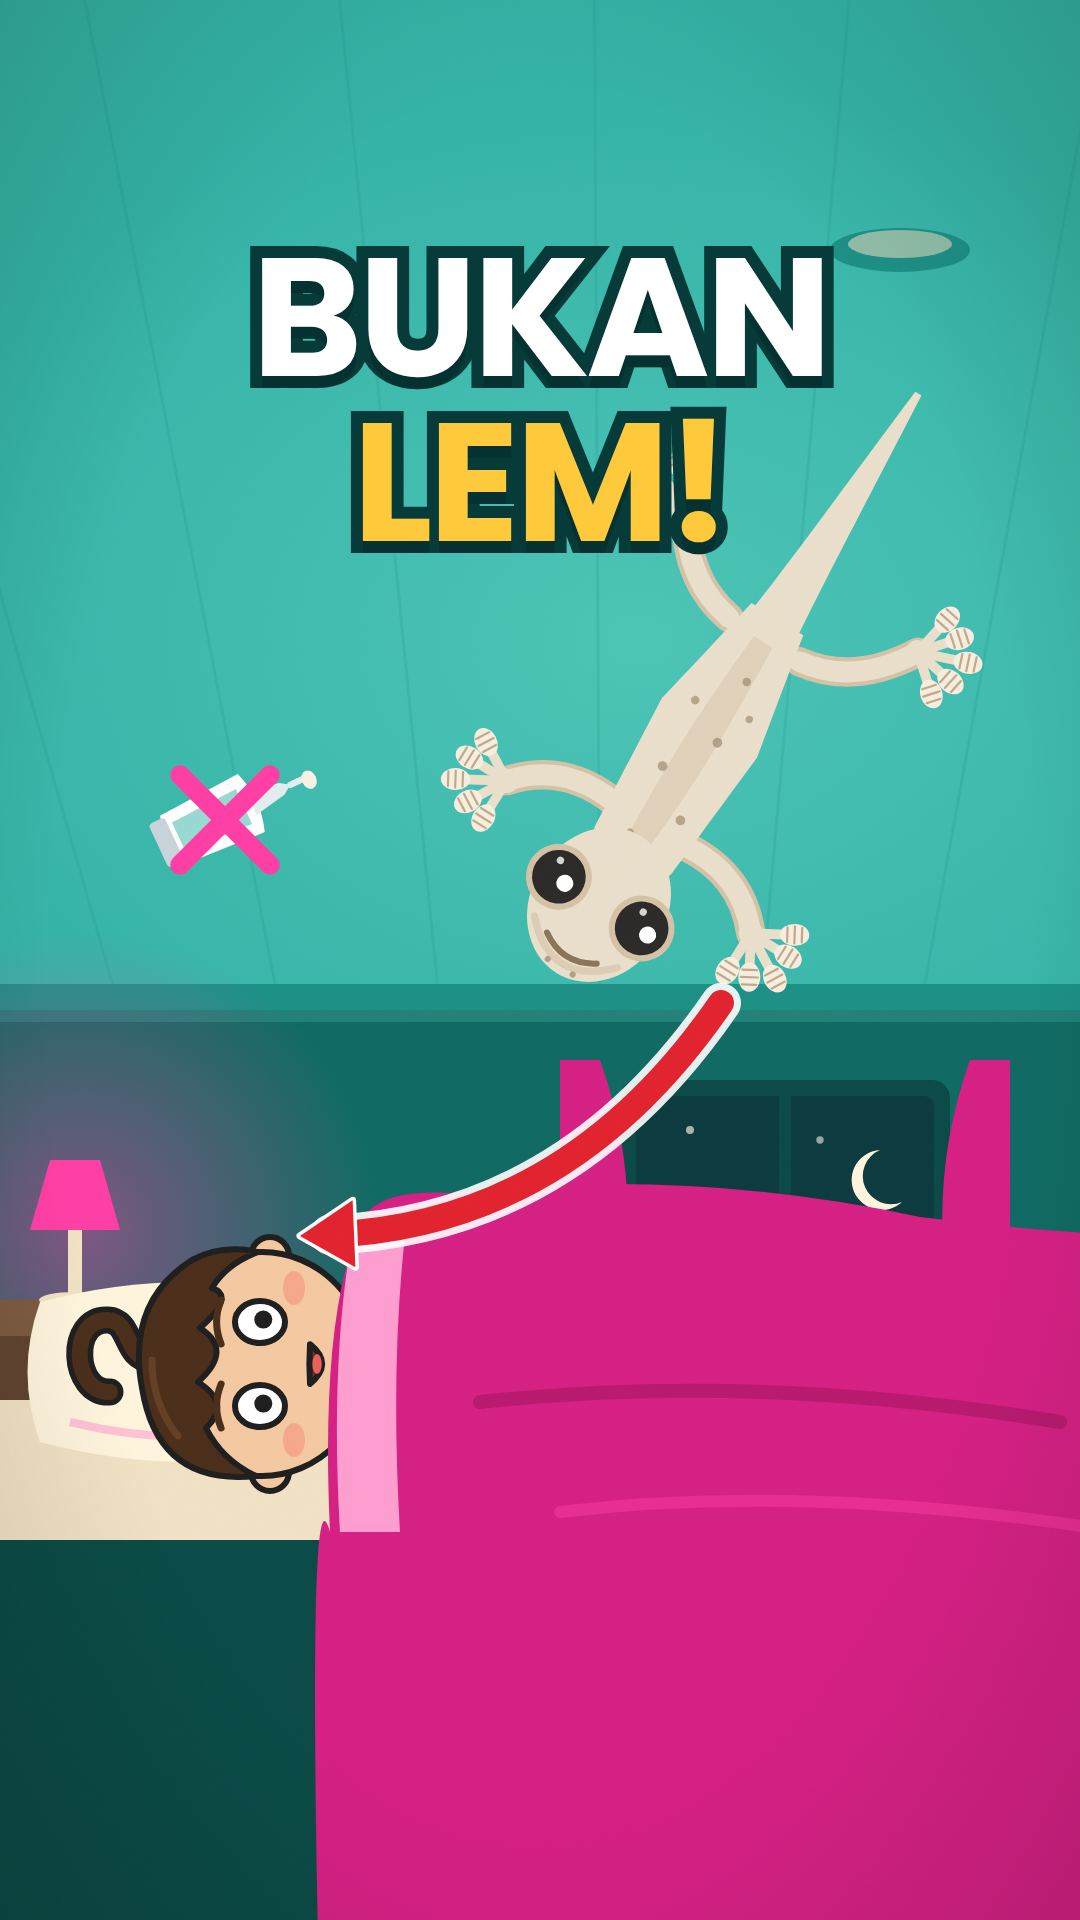
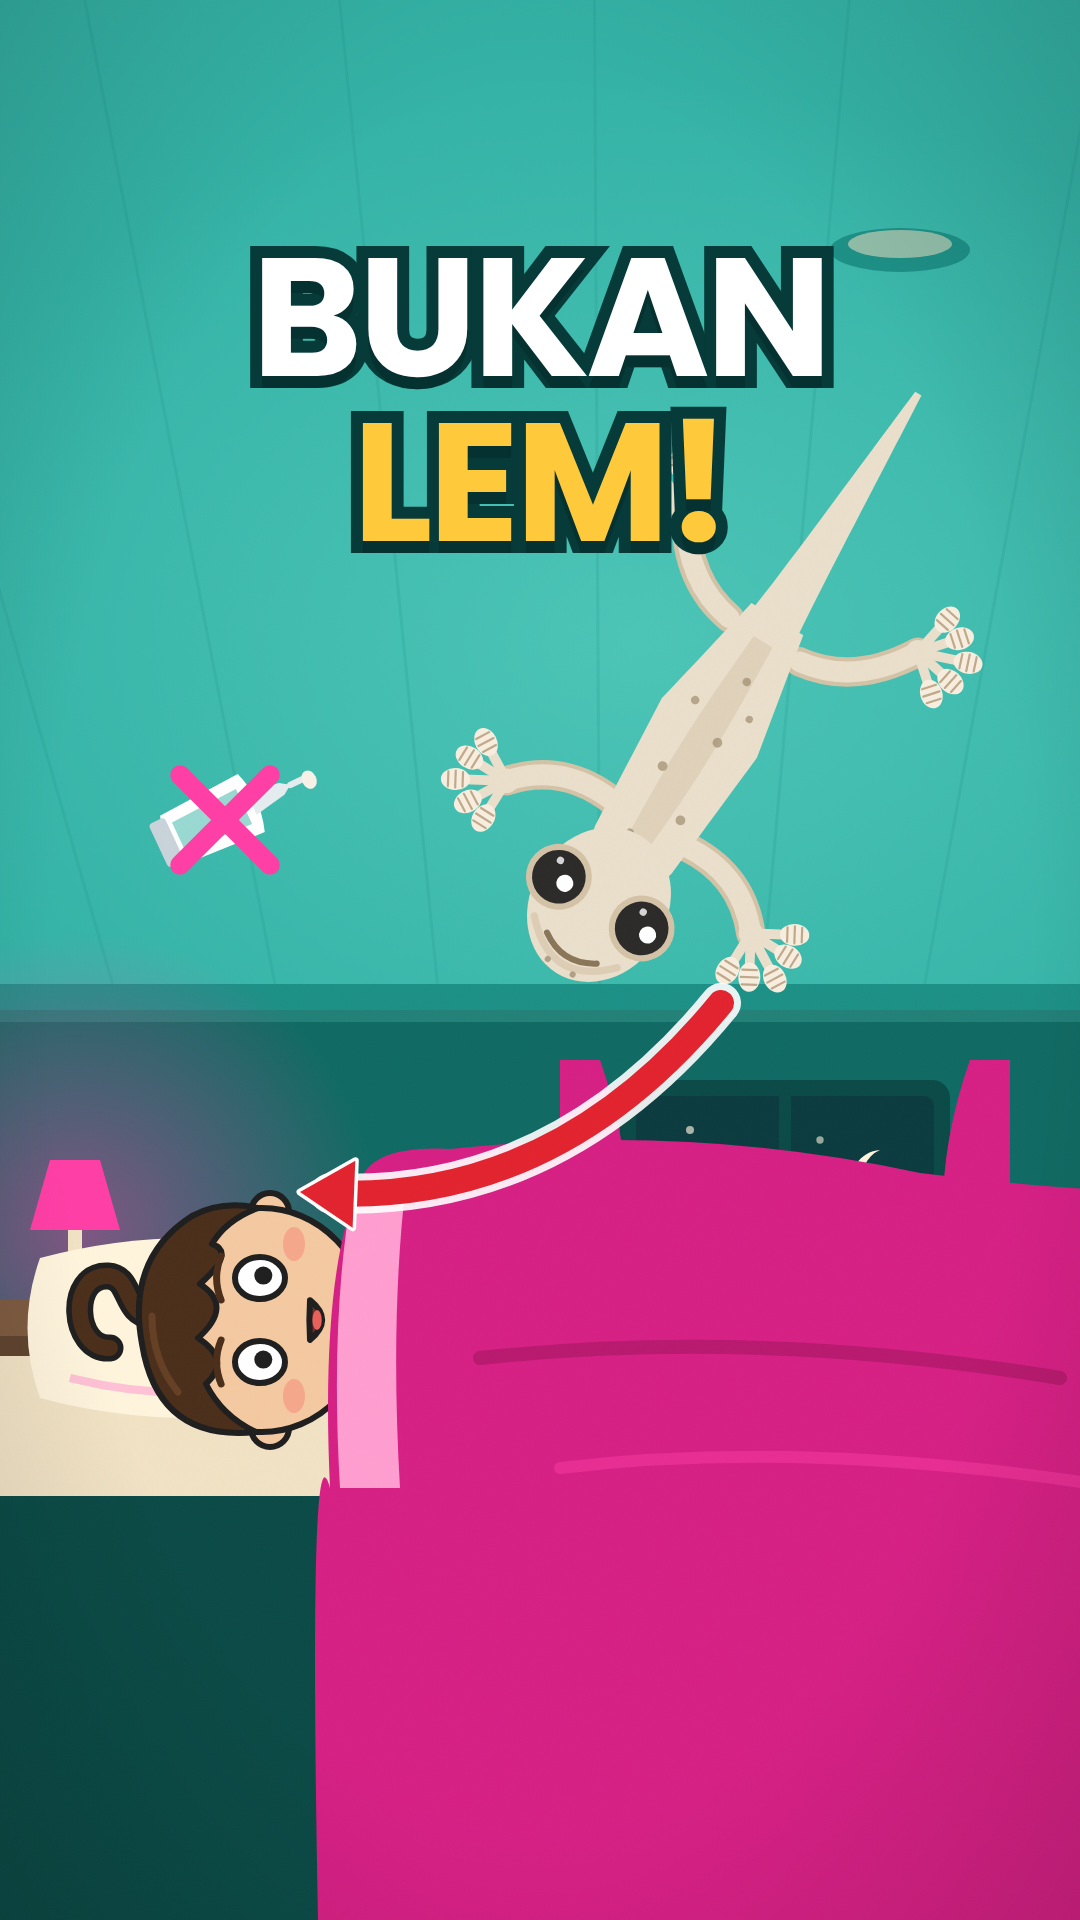
B4-01 Otak beku: R1 + cek_fakta LULUS -> produksi
Claude-Session: https://claude.ai/code/session_01SafhMvgyDP71sFZ4YM6fEU

diff --git a/antrean/2026-11-25_b3-11-cicak/visual/video.html b/antrean/2026-11-25_b3-11-cicak/visual/video.html
@@ -41,7 +41,7 @@ const cap=(txt,T,a,b,o={})=>{const kk=halus(lin(T,a-.05,a+.2))*(1-halus(lin(T,b-
  return `<div class="abs" style="left:90px;width:900px;top:${o.y||268}px;text-align:center;transform:rotate(${o.rot??-2}deg) scale(${(.86+.14*kk).toFixed(3)});opacity:${kk.toFixed(3)}"><span style="display:inline-block;max-width:880px;padding:6px 30px 12px;border:8px solid ${o.warna||C.FUCHSIA};border-radius:24px;background:${o.bg||'rgba(8,52,50,.86)'};font:700 ${o.uk||78}px/1.05 Poppins;letter-spacing:-1px;color:#FFFFFF;text-shadow:0 6px 16px rgba(0,0,0,.45)">${txt}</span>${o.kecil?`<div style="margin-top:14px;font:600 36px Poppins;color:${C.KREM};text-shadow:0 3px 8px rgba(0,0,0,.6)">${o.kecil}</div>`:''}</div>`};
 
 // ===== DUNIA KAMAR (sampul, babak 1-2, babak 6, babak 8 akhir) =====
-const BARING={cx:330,cy:1362,rot:-90,w:400};
+const BARING={cx:330,cy:1318,rot:-90,w:400};
 const CK0={x:705,y:735,s:1.22,rot:212};
 const TANGAN_BAWAH={tanganK:[134,412],tanganN:[266,412],bentukK:'kepal',bentukN:'kepal',tekukK:1,tekukN:-1};
 const ATS=tebeAnimasi([{t:0,pose:'kaget'}],{benih:3});
@@ -63,7 +63,7 @@ function kamarScene(T,st){
  const t=st.tb;let tebeHtml=t?tebeDi(t.p,t.cx,t.cy,(t.w||BARING.w),t.rot,t.extra||''):'';
  let ov=A.selimut(T,{tepi:st.sel.tepi,cy:BARING.cy,angkat:st.sel.angkat,fase:st.sel.fase});
  if(st.hp&&st.hp.a>0)ov+=`<g opacity="${st.hp.a.toFixed(3)}">${A.hp(st.hp.x,st.hp.y,st.hp.s,st.hp.rot,{tag:st.hp.tag})}</g>`;
- if(st.panah>0){const f=A.posKaki(0,c.x,c.y,c.s,c.rot);ov+=A.panahMerah(Math.round(f[0]-30),Math.round(f[1]+70),300,1236,st.panah)}
+ if(st.panah>0){const f=A.posKaki(0,c.x,c.y,c.s,c.rot);ov+=A.panahMerah(Math.round(f[0]-30),Math.round(f[1]+70),300,1192,st.panah)}
  // debu jatuh dari langit-langit melewati kamera
  if(st.debu>=0&&st.debu<1){const u=st.debu,x=lerp(640,560,u),y=lerp(760,1700,u*u),r=lerp(6,40,u*u);ov+=`<circle cx="${x.toFixed(1)}" cy="${y.toFixed(1)}" r="${r.toFixed(1)}" fill="${C.KREM}" opacity="${(.9*(1-u*.6)).toFixed(3)}"/>`}
  return latar(C.TOSCA2)+kamera(svgBesar(bg+pl,st.blur||0)+tebeHtml+svgW(ov),st.cam)}

diff --git a/studio-aset/aset-cicak.js b/studio-aset/aset-cicak.js
@@ -44,7 +44,7 @@
   const rotP = (p, deg) => { const r = (deg * Math.PI) / 180, c = Math.cos(r), s = Math.sin(r); return [p[0] * c - p[1] * s, p[0] * s + p[1] * c]; };
 
   // ---------- kamar malam (koordinat layar 1080x1920 + margin) ----------
-  const KAMAR = { plafon: 1010, kasur: 1400, bantal: [190, 1372] };
+  const KAMAR = { plafon: 1010, kasur: 1356, bantal: [190, 1328] };
   function kamar(t = 0, o = {}) {
     let s = `<defs><radialGradient id="ckLampu" cx=".5" cy=".5" r=".5"><stop offset="0" stop-color="${C.FUCHSIA}" stop-opacity=".55"/><stop offset="1" stop-color="${C.FUCHSIA}" stop-opacity="0"/></radialGradient>
 <radialGradient id="ckPlafon" cx=".5" cy=".5" r=".5"><stop offset="0" stop-color="${C.TOSCA1}" stop-opacity=".55"/><stop offset="1" stop-color="${C.TOSCA1}" stop-opacity="0"/></radialGradient></defs>`;

diff --git a/antrean/2026-11-25_b3-11-cicak/lembar_tim.md b/antrean/2026-11-25_b3-11-cicak/lembar_tim.md
@@ -6,5 +6,12 @@ Rasa yang dikejar (kagum / kaget / geli / haru): kaget lalu kagum (sedikit geli)
 - Nadia (naskah)    : Hook #2 mitos vs fakta dalam bingkai rebahan: "Rebahan, CICAK nempel di langit-langit, di atas mukamu. Kok bisa nggak JATUH? Pakai lem?" (cicak ±0,9 dtk) → "BUKAN lem. Bukan sedotan juga." ±6,2 dtk → "pakai... RAMBUT" + open loop "Lepasnya malah lebih ANEH" → jutaan ujung + gaya tarik antarmolekul + canda "receh SEKARUNG" → "Yang diteliti sih kerabat besarnya, TOKEK" → kejutan kedua ditarik lurus KUAT / dimiringin COPOT / dikelupas kayak stiker → KAMAR/DAPUR/LAMPU + "tag teman yang takut cicak, suruh dia lihat ke ATAS" (loop). 106 kata ±48 dtk, tanpa angka. Judul: "Kenapa Cicak Bisa Nempel? Ternyata Bukan Pakai Lem". Skor 8/9, viral 8/10. #2 dikunci untuk Cicak (Tersentak/Presto jangan #2).
   Masukan untuk Yoga: cicak WAJIB bergerak di frame 0 (bukan gambar diam); adegan 1–4 satu dunia, zoom terus dari langit-langit ke ujung rambut; garis tarik antarmolekul JANGAN magnet/tetes lem/air; tokek harus jelas beda dari cicak (besar, totol jingga); jari cicak menggulung dari ujung searah stiker; SFX "tokek!" buatan sendiri; palet tosca+fuchsia cek bentrok dengan Tersentak (jingga-kuning) — aman.
   R1 (25 Nov, cek_riset Laras 3 WAJIB + cek_seo): adegan 7 → "Digeser sejajar? Tetap KUAT. Dimiringin, diangkat dari ujung? Gampang COPOT." (teks DIGESER: KUAT / DIMIRINGIN: COPOT; Yoga: tali menarik MENYAMPING, bukan ke atas); adegan 6 "Yang paling banyak diteliti sih..."; deskripsi tanpa 30°, URL Nature 35015073, kalimat permukaan basah dihapus; tag "cicak jatuh dari langit-langit" dihapus; "malah"/"terus" dibuang → 108 kata ±48,8 dtk. Skor tetap 8/9, viral 8/10. Dua detik pertama tidak disentuh.
-- Yoga (editor)     : (diisi Yoga)
+- Yoga (editor)     : Set BARU `studio-aset/aset-cicak.js` (kamar tosca dari kasur, cicak & tokek kartun, telapak lamela, mikroskop rambut bercabang, penampang molekul, meja koin, panggung kupas, layar terbelah jari|stiker, rumah 3 ruang); 9 babak, visual berganti tiap 1,5–3 dtk, kamera selalu bergerak; subtitle pindah per babak (y 1092 / 1360 / 1330 / 925) supaya tidak menutupi cicak, telapak, atau wajah Tebe. Garis tarik = pegas kecil fuchsia antar-titik molekul (bukan magnet/lem/air); tali menarik MENYAMPING; tokek gemuk biru-abu bertotol jingga + lencana labu tanpa huruf.
+  Audio: narasi lama dipakai (0 kredit), tanpa JEDA ("pakai..." sudah memanjang 0,8 dtk). Musik `langit-langit` + SFX `tokek` & `receh` buatan sendiri (`scripts/buat_sfx_cicak.py`, 5 putaran = 50,0 dtk); "tokek!" dipendekkan 0,42 dtk & ditaruh di celah SESUDAH kata (tidak menutupi narasi). Total SFX 6.
+  Hasil: final.mp4 50,0 dtk · 12,6 MB · cek_mulus LULUS · cek_video LULUS · sampul = frame 0 = frame akhir (loop), "BUKAN LEM!" tosca+fuchsia, Tebe rebahan menatap cicak + panah merah (beda dari Nyamuk & Tersentak).
+  Masukan: Nadia — bagian "Makanya nggak jatuh" sudah dipotong dari audio, jadi cicak melambai 1 kaki di awal babak tokek sebagai gantinya; Raka — klip 7–13 dtk (telapak → RAMBUT) kuat untuk cuplikan TikTok/IG.
 - Pak Bima (manajer): KEPUTUSAN RAPAT — hook rebahan menatap cicak terbalik di langit-langit kamar, kata 'cicak' ≤ 2 dtk, tipe hook beda dari 5 video terakhir dan dari Tersentak/Presto. Kejutan ≤ dtk 8: 'bukan lem, bukan sedot'. Inti: jutaan ujung rambut super kecil di telapak → tarikan antarmolekul yang lemah per ujung tapi dikali jutaan (sebut 'gaya tarik antarmolekul', istilah van der Waals boleh di teks kecil). Kejutan kedua = cara LEPAS: dikelupas miring, bukan ditarik lurus (tanpa angka 30° di narasi bila ragu). Jujur: 'yang diteliti kerabat besarnya, tokek' — jangan klaim cicak rumah diuji. Tanpa 'tanpa air sama sekali', tanpa jumlah rambut, tanpa 'semua permukaan', tanpa tips mengusir. ≤ 50 dtk. Penutup 1 kata KAMAR/DAPUR/LAMPU + loop ke langit-langit. Sampul tosca + fuchsia, 'BUKAN LEM!', Tebe rebahan menatap ke atas.
+
+
+## Paraf setelah produksi
+- Yoga: paraf (26 Nov) — hasil akhir sudah saya tonton per babak, lembar transisi & zona aman sudah dilihat. "Sekali lagi, biar pas." Wajah Tebe di sampul sudah dinaikkan keluar dari zona UI bawah.

diff --git a/antrean/2026-11-27_b-sensasi-tubuh-baru/lembar_tim.md b/antrean/2026-11-27_b-sensasi-tubuh-baru/lembar_tim.md
@@ -5,6 +5,7 @@ Rasa yang dikejar (kagum / kaget / geli / haru): kaget lalu geli ("tubuhku salah
 - Raka (marketing)  : Kata kunci "kenapa makan es bikin sakit kepala" (tanpa data volume). Celah: pesaing = artikel ber-tips; kita jawab "kenapa salah alamat" tanpa tips, ≤ 50 dtk. Judul rekomendasi "Kenapa Makan Es Bikin Dahi Sakit? Yang Kena Bukan Otakmu"; sampul "SAKITNYA SALAH ALAMAT" biru-es + amber. Dibagikan karena "aku banget" + tag teman rakus es. Penutup 1 kata: "Es krim kamu: GIGIT atau JILAT?" Pilar Sains ±32% (aman).
 - Nadia (naskah)    : 3 kandidat hook: (a) #1 TERPILIH 9 "Sedot es teh kenceng-kenceng, DAHI langsung nyut. Otakmu BEKU? Bukan." · (b) #21 8 "Aku dulu kira otakku beneran beku tiap sedot es teh." (Tebe jadi pemeran utama, ditolak) · (c) #19/#3 7 "Otakmu nggak bisa ngerasain sakit. Terus yang nyut pas makan es apa?" (tanpa adegan es teh). Kejutan "yang dingin itu langit-langit MULUT" ±5–7 dtk; open loop "siapa yang bikin NYUT?" ±13 dtk.
   Canda: "kayak kurir paket salah ALAMAT" (±26 dtk) + Tebe detektif "tersangka KEDUA". Penutup: "Es krim kamu: GIGIT atau JILAT? Tag teman yang nyedot es kayak dikejar WAKTU." → loop ke "Sedot es teh kenceng-kenceng". 109 kata ±49 dtk; hedge "diduga", "satu studi kecil", "ahli masih belum sepakat", tanpa tips/angka relawan/migrain. Skor 8/9, viral 9/10.
+  R1: WAJIB Raka & Laras + keputusan Pak Bima diterapkan (teks 0,8 dtk, judul "sakit kepala", caption di-hedge, tanpa "cuma", "Diduga" di depan, "pembuluh otak"). Masukan Yoga: langit-langit cukup pendar dingin + embun, JANGAN kristal es; kres.wav hanya untuk balok es mitos di adegan 1.
   Masukan Yoga: lencana di adegan aliran darah cukup "STUDI KECIL" + "DIDUGA" (jangan "13 RELAWAN", ikut keputusan rapat); kurir salah alamat = pintu "DAHI" vs pintu "MULUT" tanpa merek ekspedisi. Raka: judul utama = sudut #1 kamu.
 - Yoga (editor)     : Set per babak: (1) warung es siang, gelas es teh raksasa + sedotan, Tebe menyedot lalu pegang dahi ("nyut") → (2) penampang kepala kartun bersih (tanpa gore), kamera menyusur dari langit-langit mulut yang berpendar es ke dahi yang berdenyut → (3) jalur saraf trigeminal (pakai `jalurSaraf` aset-jari.js) membawa "paket dingin" — kurir mungil salah antar ke pintu DAHI (metafora salah alamat) → (4) aliran darah: pita merah-muda melebar lalu menyempit + lencana "DIDUGA"/"13 RELAWAN" (hedge, tanpa tips) → (5) otak kartun (`otak` aset-tidur.js) bergeleng "bukan aku yang beku" → (6) kartu GIGIT/JILAT lalu loop ke sedotan.
   Momen "wah" (±dtk 6–8): satu tarikan kamera dari luar kepala masuk ke langit-langit yang membeku kristal, lalu panah sakit MELOMPAT ke dahi dan dahi menyala amber — "yang dingin di sini, yang sakit di sana" dalam satu gerak tanpa potongan.

diff --git a/aset/sfx/SUMBER.md b/aset/sfx/SUMBER.md
@@ -23,3 +23,4 @@ Buat ulang: `/usr/bin/python3 scripts/buat_audio_aset.py` (hasil identik, benih 
 | `bip.wav` · `cap.wav` | bunyi scanner kasir generik · stempel karet "duk" — sintesis `scripts/buat_sfx_barcode.py` (Yoga, 23 Nov 2026) | A3-01 barcode kasir |
 | `senandung_buka.wav` · `senandung_akhir.wav` · `kaset_klik.wav` · `tek.wav` · `dj.wav` · `musik/pagi-senandung.wav` | Senandung "hmm" bervibrato melodi 4 birama **gubahan Yoga sendiri** (nada dasar F: F A C D C / A G A F / G Bes D C A / G F G A C; dicek tidak sama dengan lagu populer/anak/daerah yang dikenal, bukan "Twinkle"), sintesis aditif + formant nasal (bukan rekaman, bukan suara AI bernyanyi → nol risiko Content ID); buka = di bawah narasi −18 dB relatif suara + naik di sela napas + tape-stop; akhir = motif sama untuk loop; latar F–Dm–Gm–C7 pad+bas+pluk+shaker, tempo dipilih agar video 56,64 dtk = 6 putaran; klik tombol play kaset, gulungan tersendat, ketukan DJ 1,3 dtk — sintesis `scripts/buat_sfx_lagu.py` (Yoga, 24 Nov 2026) | B3-09 lagu nyangkut |
 | `dug.wav` · `detak.wav` · `kring.wav` · `musik/kamar-malam.wav` | "dug" tumpul kartun + per kasur · detak jantung 2 ketukan · lonceng alarm kartun kecil · ninabobo jenaka kotak musik + pad hangat F–Dm–Bb–C (melodi gubahan Yoga sendiri, 5 putaran = 53,35 dtk) — sintesis `scripts/buat_sfx_tidur.py` (Yoga, 25 Nov 2026) | B3-05 kaget pas mau tidur |
+| `tokek.wav` · `receh.wav` · `musik/langit-langit.wav` | panggilan "to-KEK!" kartun 0,42 dtk (denyut glotal + formant, BUKAN rekaman tokek) · hujan koin + "BRUK" karung · latar jenaka C–Am–Dm–G marimba + bas petik + pad (melodi gubahan Yoga sendiri, 5 putaran = 50,0 dtk) — sintesis `scripts/buat_sfx_cicak.py` (Yoga, 26 Nov 2026) | B3-11 cicak |

diff --git a/antrean/2026-11-27_b-sensasi-tubuh-baru/cek_fakta.md b/antrean/2026-11-27_b-sensasi-tubuh-baru/cek_fakta.md
@@ -1,0 +1,9 @@
+# Cek fakta — B4-01 Otak beku makan es (Pak Bima, Jum 27 Nov 2026 pagi)
+**LULUS (R1) → produksi.** Benar dulu, baru menarik.
+- Setiap kalimat naskah_suara R1 didukung riset.md + cek_riset.md: dingin terutama di langit-langit mulut; jaringan otak tak punya reseptor nyeri; sinyal lewat saraf trigeminal; "Diduga" otak salah baca lokasi (nyeri alih); "satu studi kecil" aliran darah di pembuluh otak naik tajam lalu reda (Serrador 2012, abstrak konferensi — disebut kecil, tanpa angka relawan); "Ahli masih belum sepakat"; "biasanya sekitar setengah menit" (tanpa "cuma").
+- WAJIB Raka (teks layar kata kunci dtk 0,8 + judul) & WAJIB Laras (hedge "diduga" di caption TikTok/IG) sudah dikerjakan Nadia di R1. JSON dicek valid.
+- Tanpa tips mencegah/meredakan, tanpa "tidak berbahaya", tanpa migrain, tanpa "otak benar-benar beku". Deskripsi: "penjelasan sains, bukan saran kesehatan".
+- Judul "Kenapa Makan Es Bikin Sakit Kepala? Bukan Otak yang Beku" tidak menyesatkan (jaringan otak memang tidak membeku; hipotesis pembuluh otak tetap dibahas).
+- Catatan sumber: teks penuh tidak bisa dibuka (host diblokir sesi); abstrak Serrador terkonfirmasi lewat ≥ 5 ringkasan (ScienceDaily, Galway, SciAm, LiveScience, News-Medical) + Johns Hopkins/Texas A&M untuk mekanisme umum.
+- Skor manajer: naskah 8/9 · potensi viral 8/10 (sensasi universal + es teh = sangat dekat; blok saraf dtk 12–26 rawan terasa pelajaran → visual kurir wajib hidup).
+- Untuk Yoga: pendar dingin/embun di langit-langit (bukan kristal es); lencana "STUDI KECIL"; sampul beda dari Lagu nyangkut & Cicak.
